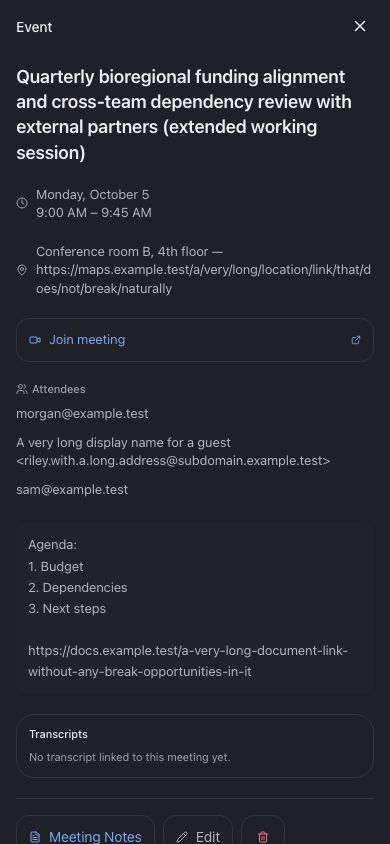
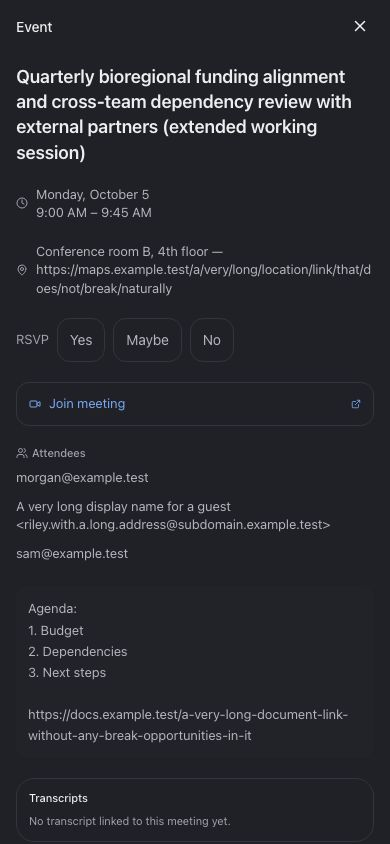
fix(calendar): RSVP near the top of an event (after time and place), not under Delete
Owner decision on PR #30: keep Agenda as the phone default and the phone week grid; move RSVP up.
The RSVP row now follows the time/location block and precedes Join, attendees, description,
transcripts and the actions, on phone and desktop alike (the desktop side panel keeps its width;
pinned by calendar-phone.spec.ts). On a phone it is on screen as the event opens.

Claude-Session: https://claude.ai/code/session_017ZBfNyX99cFFEorcGdBjcK

diff --git a/apps/web/e2e-fixtures/calendar-phone.spec.ts b/apps/web/e2e-fixtures/calendar-phone.spec.ts
@@ -182,6 +182,18 @@ for (const [width, height] of [[390, 844], [320, 568]] as const) {
       await expect(dialog.getByRole("button", { name: /^Close/ })).toHaveCount(1);
       await expect(dialog.getByRole("button", { name: "Close calendar details" })).toBeInViewport();
 
+      // RSVP is near the top — after the time and place, before the guests, notes, transcripts and Delete —
+      // and on a phone it is on screen as the event opens.
+      const order = await dialog.evaluate((el) => {
+        const y = (n: Element | null | undefined) => (n ? Math.round(n.getBoundingClientRect().top) : NaN);
+        const text = (t: string) => Array.from(el.querySelectorAll("span, div")).find((n) => n.children.length === 0 && n.textContent?.trim().startsWith(t));
+        return { time: y(text("9:00 AM")), place: y(text("Conference room B")), rsvp: y(el.querySelector("[data-testid=event-rsvp]")), guests: y(text("Attendees")), notes: y(text("Agenda:")), transcripts: y(el.querySelector("[aria-label='Meeting transcripts']")), remove: y(el.querySelector("[aria-label='Delete event']")) };
+      });
+      expect(Object.entries(order).sort((a, b) => a[1] - b[1]).map(([k]) => k), JSON.stringify(order)).toEqual(["time", "place", "rsvp", "guests", "notes", "transcripts", "remove"]);
+      await expect(dialog.getByTestId("event-rsvp").getByRole("button", { name: "Yes", exact: true })).toBeInViewport({ ratio: 1 });
+
+      await dialog.getByRole("button", { name: "Maybe", exact: true }).click();
+      await expect(dialog.getByTestId("event-rsvp")).toContainText("Marked tentative");
       await dialog.getByRole("button", { name: "Delete event" }).click();
       const confirm = dialog.getByRole("alertdialog", { name: "Confirm delete" });
       await confirm.scrollIntoViewIfNeeded();
@@ -192,8 +204,6 @@ for (const [width, height] of [[390, 844], [320, 568]] as const) {
       // The header stays while the body scrolls.
       await expect(dialog.getByRole("button", { name: "Close calendar details" })).toBeInViewport();
 
-      await dialog.getByRole("button", { name: "Maybe", exact: true }).click();
-      await expect(dialog).toContainText("Marked tentative");
       await confirm.getByRole("checkbox").uncheck();
       await expect(confirm).toContainText("Don't email guests");
       await confirm.getByRole("button", { name: "Delete this occurrence" }).click();
@@ -291,6 +301,28 @@ for (const [width, height] of [[390, 844], [320, 568]] as const) {
 
 test.describe("desktop is unchanged", () => {
   test.use({ viewport: { width: 1280, height: 800 }, timezoneId: "America/Denver" });
+
+  test("event panel: RSVP sits after the time and place, above the guests, in the side panel", async ({ page }) => {
+    await open(page);
+    await view(page, "Day").click(); // the month cell shows three chips; this one is under "+6 more"
+    await page.getByRole("button", { name: /^Quarterly bioregional/ }).first().click();
+    const aside = page.locator("aside");
+    const rsvp = aside.getByTestId("event-rsvp");
+    await expect(rsvp.getByRole("button")).toHaveText(["Yes", "Maybe", "No"]);
+    const top = async (l: Locator) => (await l.boundingBox())!.y;
+    expect(await top(rsvp)).toBeGreaterThan(await top(aside.getByText(/^Conference room B/)));
+    expect(await top(rsvp)).toBeLessThan(await top(aside.getByText("Attendees", { exact: true })));
+    expect(await top(rsvp)).toBeLessThan(await top(aside.getByRole("button", { name: "Delete event" })));
+    // The panel keeps its width and nothing runs out of it.
+    const box = (await aside.boundingBox())!;
+    const r = (await rsvp.boundingBox())!;
+    expect(r.x).toBeGreaterThanOrEqual(box.x);
+    expect(r.x + r.width).toBeLessThanOrEqual(box.x + box.width);
+    expect(await aside.evaluate((el) => el.scrollWidth - el.clientWidth)).toBeLessThanOrEqual(0);
+    await rsvp.getByRole("button", { name: "Yes", exact: true }).click();
+    await expect(rsvp).toContainText("Accepted");
+    expect((await fixture(page)).rsvps).toEqual([{ eventId: "long-event", response: "accepted" }]);
+  });
 
   test("month by default, the wrapping header and its three views, the side panel for a day", async ({ page }) => {
     await open(page);

diff --git a/packages/core/src/components/comms/CalendarDashboard.tsx b/packages/core/src/components/comms/CalendarDashboard.tsx
@@ -778,6 +778,19 @@ function EventDetailPanel({ event, onClose, onEdit, onDelete, onOpenNotes, onOpe
         </div>
       )}
 
+      {/* RSVP — near the top: the one thing most often done to an invitation. */}
+      {canRsvp && (
+        <div className="flex items-center gap-2 flex-wrap" data-testid="event-rsvp">
+          {!rsvpNA && <span className="text-sm" style={{ color: "var(--text-muted)" }}>RSVP</span>}
+          {!rsvpNA && (["accepted", "tentative", "declined"] as RsvpResponse[]).map((r) => (
+            <button key={r} onClick={() => rsvp(r)} className="focus-ring min-h-control min-w-control px-3 py-1.5 rounded-lg text-sm transition-colors hover:bg-[var(--glass-hover)]" style={{ color: "var(--text-secondary)", border: "1px solid var(--glass-border)" }}>
+              {r === "accepted" ? "Yes" : r === "tentative" ? "Maybe" : "No"}
+            </button>
+          ))}
+          {rsvpMsg && <span className="text-sm" style={{ color: "var(--text-muted)" }}>{rsvpMsg}</span>}
+        </div>
+      )}
+
       {/* Meet link */}
       {meetUrl && (
         <a
@@ -881,17 +894,6 @@ function EventDetailPanel({ event, onClose, onEdit, onDelete, onOpenNotes, onOpe
               </button>
             </div>
           )}
-        </div>
-      )}
-      {canRsvp && (
-        <div className="flex items-center gap-2 flex-wrap">
-          {!rsvpNA && <span className="text-sm" style={{ color: "var(--text-muted)" }}>RSVP</span>}
-          {!rsvpNA && (["accepted", "tentative", "declined"] as RsvpResponse[]).map((r) => (
-            <button key={r} onClick={() => rsvp(r)} className="focus-ring min-h-control min-w-control px-3 py-1.5 rounded-lg text-sm transition-colors hover:bg-[var(--glass-hover)]" style={{ color: "var(--text-secondary)", border: "1px solid var(--glass-border)" }}>
-              {r === "accepted" ? "Yes" : r === "tentative" ? "Maybe" : "No"}
-            </button>
-          ))}
-          {rsvpMsg && <span className="text-sm" style={{ color: "var(--text-muted)" }}>{rsvpMsg}</span>}
         </div>
       )}
     </div>

diff --git a/apps/web/e2e-fixtures/calendar-phone-shots.spec.ts b/apps/web/e2e-fixtures/calendar-phone-shots.spec.ts
@@ -53,7 +53,6 @@ if (run) for (const [width, height] of [[390, 844], [320, 568]] as const) {
       await expect(page.getByRole("button", { name: "Meeting Notes" })).toBeVisible();
       await page.waitForTimeout(300);
       await shot(page, "05-detail-top");
-      await page.getByRole("button", { name: "Meeting Notes" }).scrollIntoViewIfNeeded();
       await page.getByRole("button", { name: "Yes", exact: true }).scrollIntoViewIfNeeded();
       await page.getByRole("button", { name: "Yes", exact: true }).click();
       await page.waitForTimeout(200);
